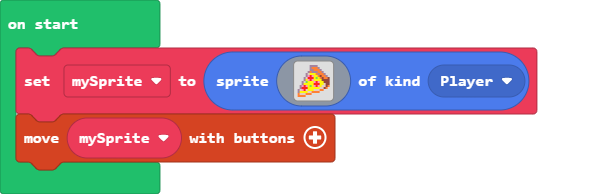
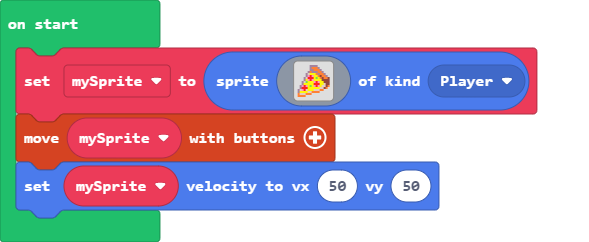
Update main.blocks, main.ts

diff --git a/main.ts b/main.ts
@@ -17,3 +17,4 @@ let mySprite = sprites.create(img`
     4 4 4 4 . . . . . . . . . . . . 
     `, SpriteKind.Player)
 controller.moveSprite(mySprite)
+mySprite.setVelocity(50, 50)
